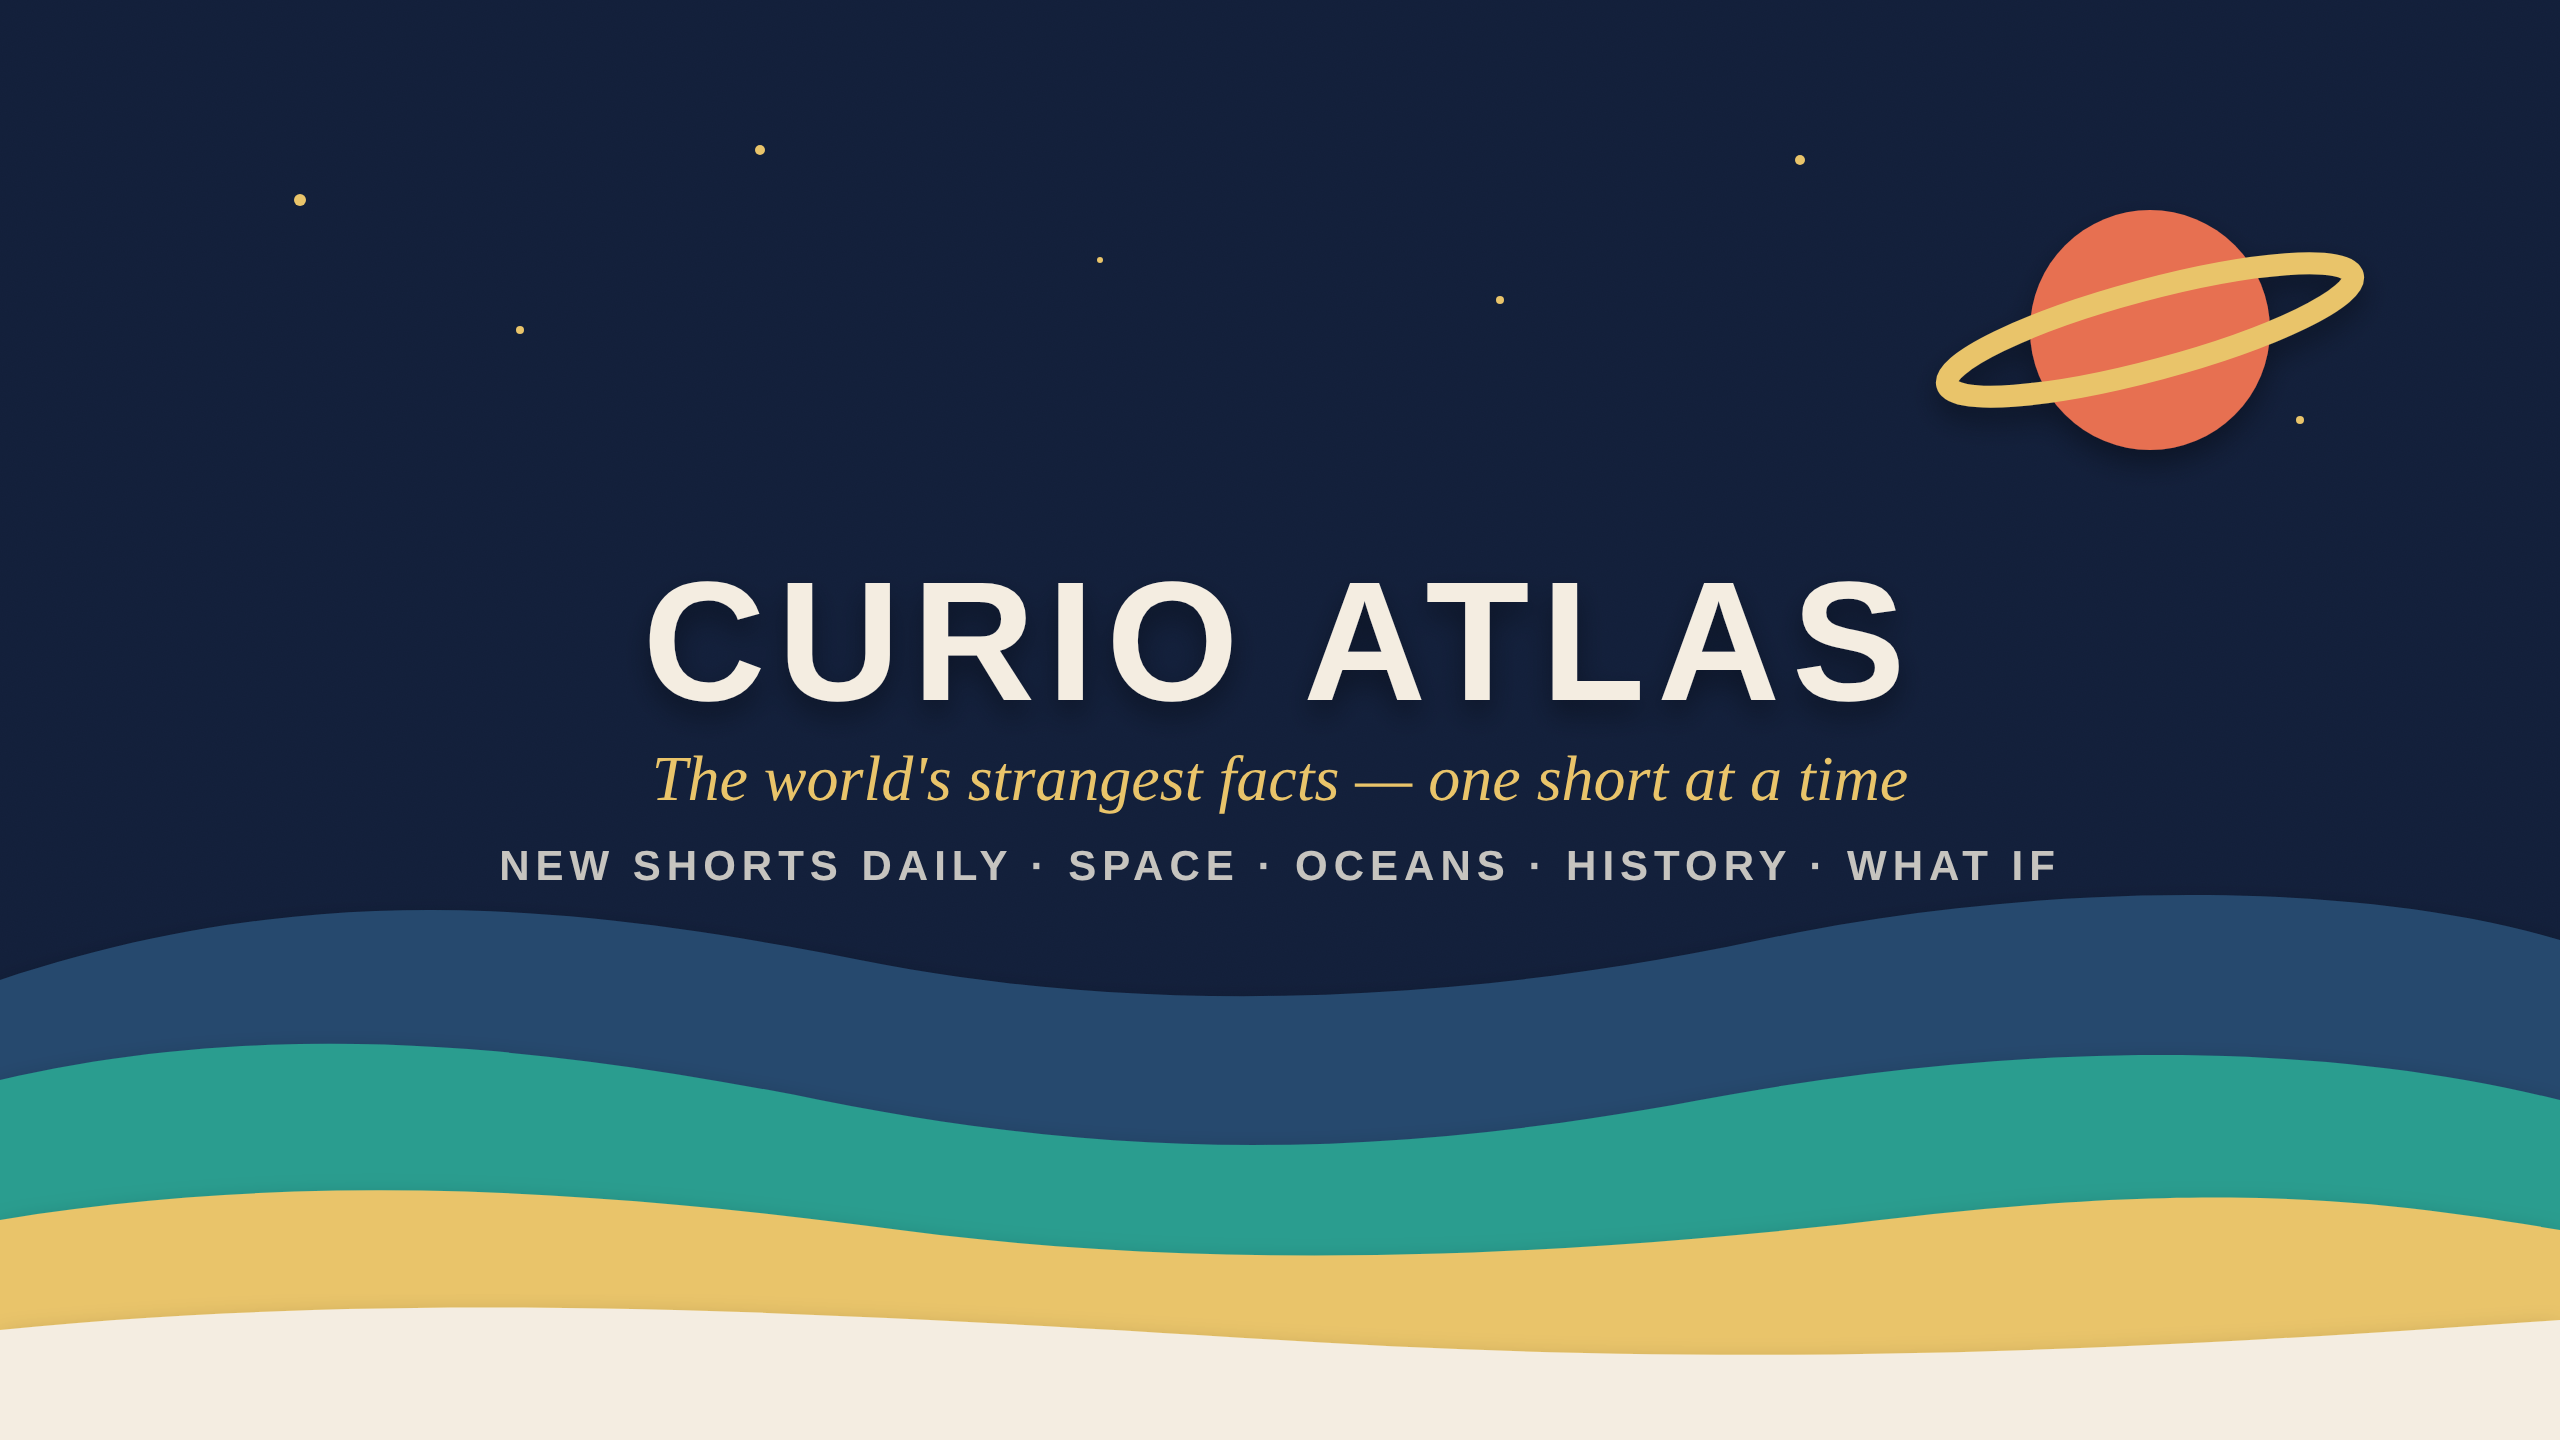
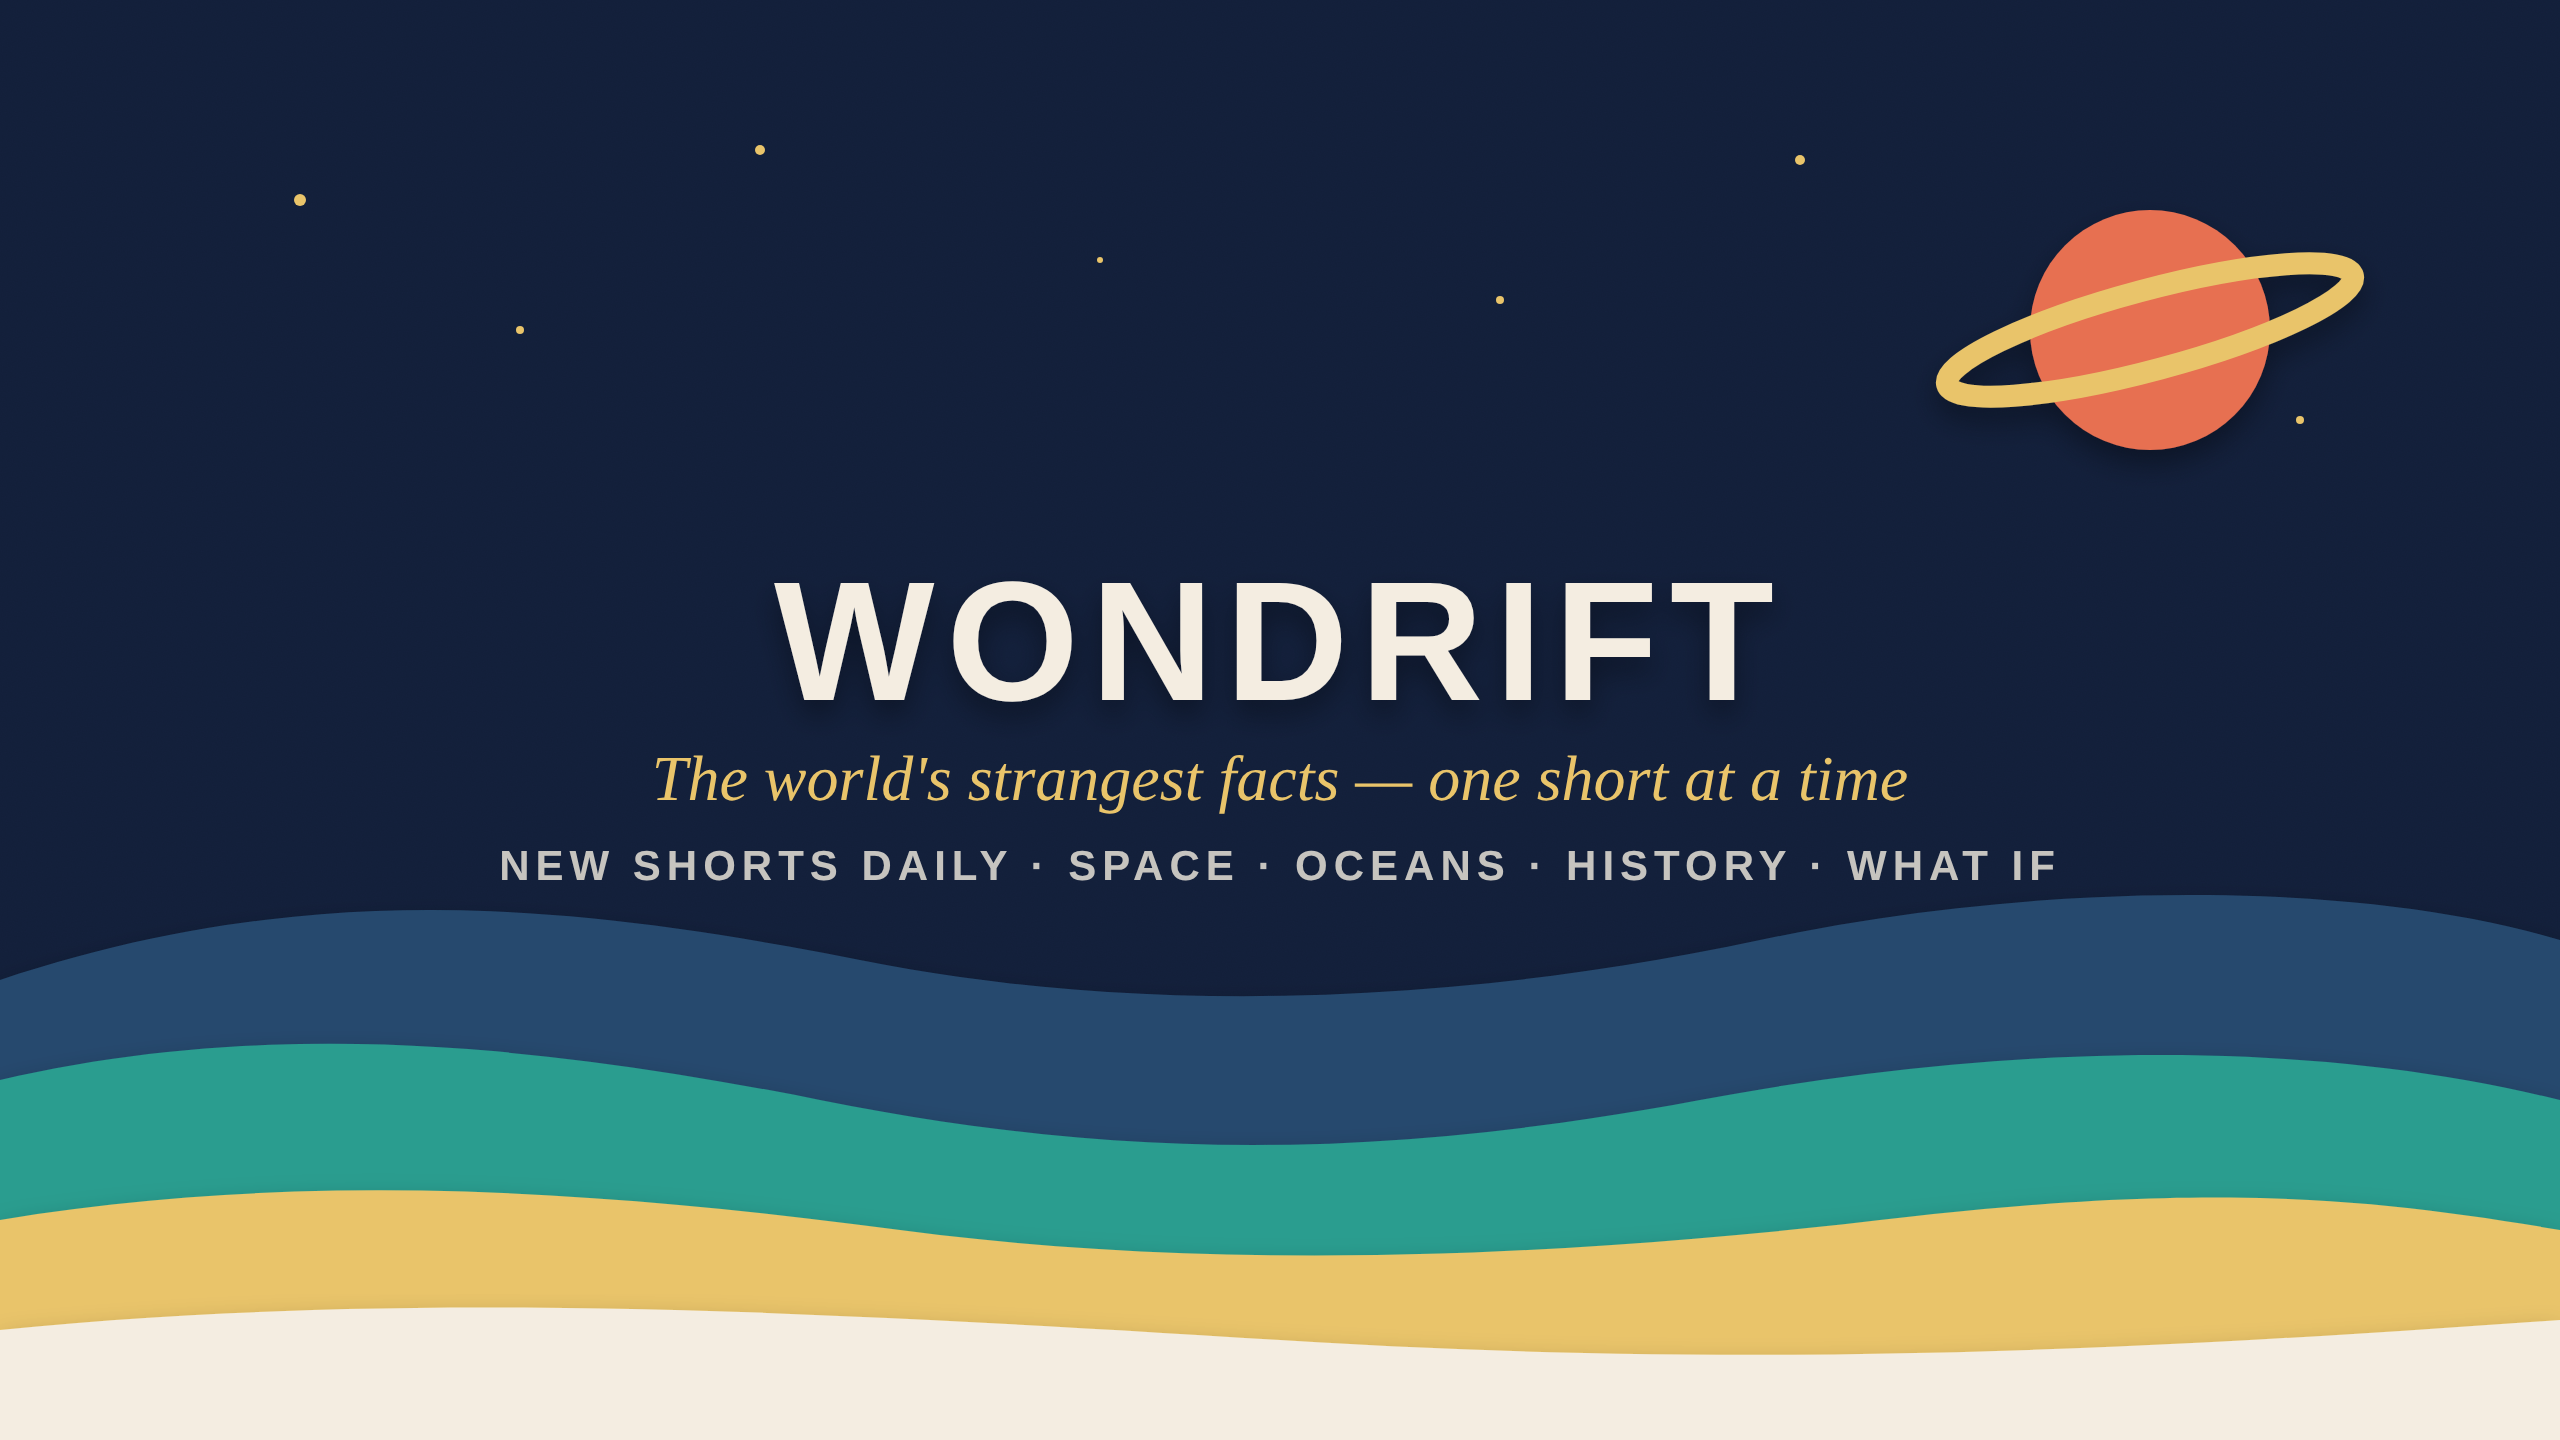
Rename channel to Wondrift (unique coined name)
Update branding docs, templates, logo monogram and banner; regenerate PNGs.

Claude-Session: https://claude.ai/code/session_01LUdMFDH2nhHCvLzQWuMDfb

Changed region(s): [[0.25, 0.4062, 0.75, 0.5]]

diff --git a/docs/02-jenama-channel.md b/docs/02-jenama-channel.md
@@ -1,23 +1,26 @@
 # 02 — Jenama Channel: Nama, Gambar & Gaya Seni
 
-## A. Cadangan nama (global, mudah sebut, mudah eja)
+## A. Nama channel — nama ciptaan sendiri (unik)
+
+Nama dicipta dari gabungan perkataan, bukan perkataan biasa, supaya **tiada orang lain guna**.
+Carian web (27 Nov 2026) bagi nama tepat **"Wondrift"**, **"Oddlume"** dan **"Papyrlume"** tidak menjumpai
+sebarang channel, syarikat atau jenama.
 
 | # | Nama | Handle | Maksud / kenapa sesuai |
 |---|---|---|---|
-| ⭐ 1 | **Curio Atlas** | `@CurioAtlas` | *Curio* (benda unik/ingin tahu) + *Atlas* (peta dunia). Luas: sains, sejarah, angkasa. **Cadangan utama.** |
-| 2 | **Odd Orbit** | `@OddOrbit` | Pendek, bunyi aliterasi, sesuai jika lebih fokus angkasa & sains. |
-| 3 | **Tiny Wonders** | `@TinyWonders` | Mesra keluarga, sesuai Shorts ringkas. |
-| 4 | **The Quiet Archive** | `@QuietArchive` | Nada misteri / sejarah, sesuai video panjang "sleep-friendly". |
-| 5 | **Mindspark Minute** | `@MindsparkMinute` | Menekankan "fakta dalam seminit". |
-| 6 | **Paperlight Facts** | `@PaperlightFacts` | Padan terus dengan gaya seni paper-cutout di bawah. |
+| ⭐ 1 | **Wondrift** | `@Wondrift` | *Wonder* + *Drift* — "hanyut melalui keajaiban dunia". 2 suku kata, mudah sebut & eja dalam semua bahasa. **Cadangan utama.** |
+| 2 | **Oddlume** | `@Oddlume` | *Odd* (pelik) + *Lume* (cahaya) — "menerangi perkara pelik". |
+| 3 | **Papyrlume** | `@Papyrlume` | *Papyrus* (kertas purba) + *Lume* — padan terus dengan gaya seni potongan kertas. |
+
+Slogan: **"Drift through the world's strangest wonders."**
 
 ### Sebelum muktamadkan nama (WAJIB)
-1. Cari nama di YouTube, Instagram, TikTok — pastikan tiada channel besar guna nama sama/hampir sama.
+1. Taip `@Wondrift` semasa cipta handle di YouTube — jika YouTube benarkan, handle itu milik anda. Daftar **hari ini** sebelum orang lain ambil.
 2. Semak tanda dagangan: **USPTO** (tmsearch.uspto.gov), **WIPO Global Brand Database**, **MyIPO** (Malaysia).
-3. Semak domain `.com` (cth. curioatlas.com) — beli jika ada (~USD 10/tahun) untuk email & laman.
+3. Semak domain `.com` (cth. wondrift.com — semak di Namecheap / Porkbun) — beli jika ada (~USD 10/tahun) untuk email & laman.
 4. Daftar handle yang **sama** di YouTube, TikTok, Instagram, X, Threads pada hari yang sama.
 
-> Saya tidak dapat menjamin nama ini bebas tanda dagangan — langkah 1–2 di atas mesti anda buat sendiri.
+> Carian web tidak sama dengan semakan rasmi tanda dagangan — buat langkah 2 sebelum melabur dalam merchandise.
 
 ## B. Gaya seni (art direction) — pilih SATU dan kekal
 
@@ -46,16 +49,16 @@ Contoh `[SUBJECT]`: *a giant squid in the deep ocean*, *the planet Saturn and it
 **Peraturan penggunaan AI:** semak terma alat (pilih pelan yang benarkan guna komersial), jangan sebut nama artis hidup atau watak berjenama dalam prompt, simpan prompt + tarikh dalam tracker sebagai bukti asal-usul.
 
 ## C. Gambar profil (logo) & banner
-- `assets/logo.svg` — globe gaya potongan kertas dengan bintang "curio" + inisial **CA**. Asal & dilukis untuk projek ini — 100% milik anda.
+- `assets/logo.svg` — globe gaya potongan kertas dengan bintang "wonder" + huruf **W**. Asal & dilukis untuk projek ini — 100% milik anda.
 - `assets/banner.svg` — 2560×1440, kandungan penting dalam zon selamat tengah 1546×423.
 - Versi PNG siap: `assets/logo.png` (800×800) & `assets/banner.png` (2560×1440) — terus upload ke YouTube.
 - Mahu ubah? Edit fail SVG (Inkscape / Figma / Canva), kemudian eksport semula ke PNG.
 
 ## D. Teks "About" channel (salin terus)
-> **Curio Atlas** — the world's strangest facts, mapped one short at a time. 🌍
-> Space, deep oceans, lost history, and the weird science of your own body — explained in under a minute.
+> **Wondrift** — drift through the world's strangest wonders. 🌍
+> One strange fact at a time — space, deep oceans, lost history, and the weird science of your own body.
 > New Shorts daily. Long-form deep dives every week.
-> 📩 Business: hello@curioatlas.com  *(tukar kepada email anda)*
+> 📩 Business: hello@wondrift.com  *(tukar kepada email anda)*
 
 **Keyword channel:** facts, science facts, space, history, mysteries, what if, geography, ocean, curiosity, education
 

diff --git a/README.md b/README.md
@@ -1,10 +1,10 @@
-# 🌍 Curio Atlas — Projek Channel YouTube Faceless (English)
+# 🌍 Wondrift — Projek Channel YouTube Faceless (English)
 
 Projek lengkap untuk membina channel YouTube **faceless** dalam **Bahasa Inggeris** (audiens global),
 fokus pada **YouTube Shorts** dan disusuli video panjang. Semua dokumen panduan ditulis dalam Bahasa
 Melayu; semua kandungan video (skrip, tajuk, deskripsi) dalam Bahasa Inggeris.
 
-> **Nama channel cadangan utama: `Curio Atlas`** — "curious facts from every corner of the world".
+> **Nama channel cadangan utama: `Wondrift`** — *Wonder + Drift* — "drift through the world's wonders". Nama ciptaan baharu: carian web tidak menjumpai sebarang channel/jenama lain dengan nama ini (Nov 2026).
 > Alternatif ada dalam [docs/02-jenama-channel.md](docs/02-jenama-channel.md).
 
 ## Struktur projek
@@ -24,8 +24,8 @@ Melayu; semua kandungan video (skrip, tajuk, deskripsi) dalam Bahasa Inggeris.
 
 ## Mula dalam 7 hari
 
-1. **Hari 1** — Baca `docs/02` & `docs/03`. Cipta akaun Google baharu khas untuk channel, buat channel `Curio Atlas`, pasang 2-Step Verification.
-2. **Hari 2** — Upload `assets/logo.svg` (tukar ke PNG 800×800) & `assets/banner.svg` (2560×1440). Isi About, link, keyword.
+1. **Hari 1** — Baca `docs/02` & `docs/03`. Cipta akaun Google baharu khas untuk channel, buat channel `Wondrift`, pasang 2-Step Verification.
+2. **Hari 2** — Upload `assets/logo.png` (800×800) & `assets/banner.png` (2560×1440). Isi About, link, keyword.
 3. **Hari 3** — Pilih 3 skrip dari `content/skrip-30-hari.md`. Jana suara & visual ikut `docs/04`.
 4. **Hari 4–5** — Hasilkan 3 Short pertama dengan `tools/make_short.py` atau CapCut.
 5. **Hari 6** — Semak senarai semak legal (`docs/03`) → upload. 

diff --git a/templates/upload-template.md b/templates/upload-template.md
@@ -7,7 +7,7 @@
 ```
 [One-sentence summary of the fact.]
 
-🌍 Curio Atlas — the world's strangest facts, one short at a time.
+🌍 Wondrift — the world's strangest facts, one short at a time.
 ▶ Watch the full deep dive: [link to related long video]
 
 Sources:
@@ -15,9 +15,9 @@ Sources:
 • [source 2 link]
 
 Music: [track name] — YouTube Audio Library
-Visuals: original illustrations by Curio Atlas [+ stock credits if any]
+Visuals: original illustrations by Wondrift [+ stock credits if any]
 
-#shorts #facts #[topic] #science #curioatlas
+#shorts #facts #[topic] #science #wondrift
 ```
 
 ## Settings
@@ -26,5 +26,5 @@ Visuals: original illustrations by Curio Atlas [+ stock credits if any]
 - Related video: link to a long-form video (once you have one)
 - Category: Education
 - Language: English · Caption: English
-- Tags (only a few needed): topic, curio atlas, facts
+- Tags (only a few needed): topic, wondrift, facts
 - Comment pin: ask a question — e.g. *"Would you rather visit Saturn or Venus? 👇"*

diff --git a/docs/01-kajian-niche.md b/docs/01-kajian-niche.md
@@ -22,7 +22,7 @@
 6. **Satu topik, satu "wow"** — jangan padatkan 5 fakta; satu fakta yang diceritakan dengan baik menang.
 7. **Siri** — "Part 1/2/3", "Day 12 of…" membina tabiat tonton.
 
-## B. Niche dipilih: **Curious Facts Atlas** (Sains + Sejarah + Geografi + "What if")
+## B. Niche dipilih: **Wondrift Facts** (Sains + Sejarah + Geografi + "What if")
 
 **Kenapa:**
 - **Evergreen** — fakta tentang lautan, angkasa, tamadun tidak basi; video lama terus dapat tontonan.

diff --git a/templates/script-template.md b/templates/script-template.md
@@ -1,4 +1,4 @@
-# Script Template — Curio Atlas Short
+# Script Template — Wondrift Short
 
 **Episode #:**   **Pillar:** 🌊 / 🚀 / 🏛 / 🧠 / ❓
 **Working title (≤ 60 chars):**
